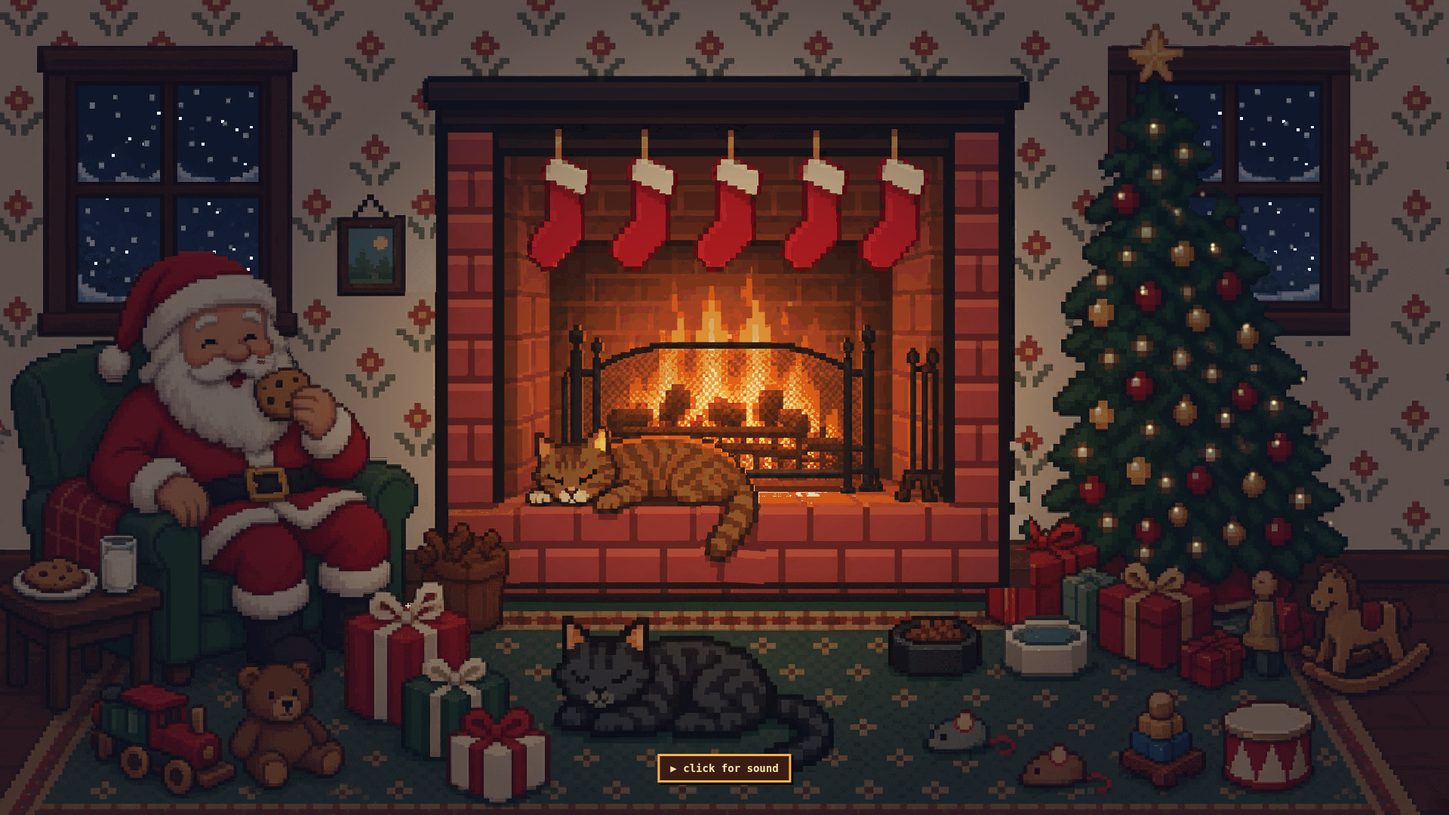
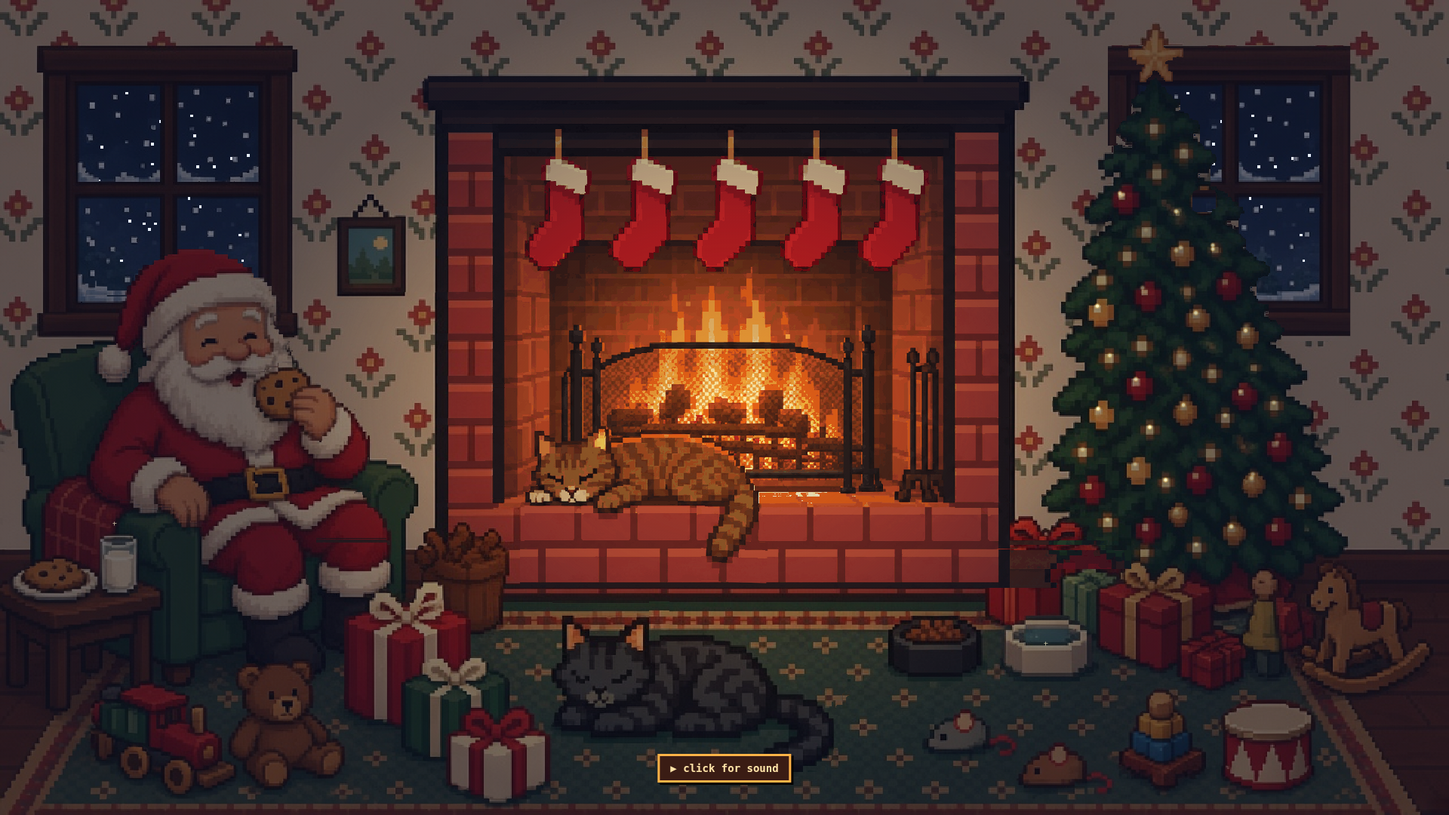
Remake scene from scratch with new art and animation layers

diff --git a/index.html b/index.html
@@ -1,130 +1,25 @@
-<!doctype html><html lang="en"><head><meta charset="utf-8"><meta name="viewport" content="width=device-width,initial-scale=1"><title>Cozy Xmas Cats</title>
-<style>
-html,body{margin:0;height:100%;background:#0d0a0a;overflow:hidden}
-.s{position:absolute;left:50%;top:50%;transform:translate(-50%,-50%);width:max(100vw,177.78vh);height:max(56.25vw,100vh);background:url(bg.png) 0 0/100% 100%;image-rendering:pixelated;overflow:hidden}
-@media (max-aspect-ratio:4/3){.s{width:min(100vw,177.78vh);height:min(56.25vw,100vh)}}
-.s>*{position:absolute;pointer-events:none;image-rendering:pixelated}
-#snow{left:5.384%;top:10.526%;width:12.427%;height:26.555%;z-index:6;-webkit-mask:url(pm1.png) 0 0/100% 100%;mask:url(pm1.png) 0 0/100% 100%}#snow2{left:78.600%;top:10.526%;width:12.427%;height:26.555%;z-index:6;-webkit-mask:url(pm2.png) 0 0/100% 100%;mask:url(pm2.png) 0 0/100% 100%}.wframe,.rfront{z-index:2!important}#night{inset:0;z-index:4;background:radial-gradient(ellipse 34% 52% at 50.6% 50%,rgba(8,12,35,0) 0,rgba(8,12,35,.18) 45%,rgba(8,12,35,.5) 85%,rgba(8,12,35,.58) 100%)}#glow{z-index:5!important}.lt,.gl{z-index:8!important}#fire{z-index:1}.e{z-index:6!important}.lt{width:.45%;height:.8%;margin:-.4% 0 0 -.22%;background:radial-gradient(circle,rgba(255,250,200,.95) 0 25%,rgba(255,210,110,.5) 45%,transparent 70%);z-index:5;animation:tw 2s steps(3) infinite}@keyframes tw{0%,100%{opacity:.15}50%{opacity:1}}.wframe{z-index:2}.santa,.sarm{z-index:3}[class*=stk],[class*=mt]{z-index:2}
-@keyframes cookie{0%,55%,100%{transform:rotate(0)}70%{transform:rotate(6deg)}82%{transform:rotate(-1deg)}88%{transform:rotate(0)}}
-@keyframes stk{0%,100%{transform:rotate(-1.6deg)}50%{transform:rotate(1.6deg)}}
-@keyframes wig{0%,80%,100%{transform:rotate(0)}85%{transform:rotate(-12deg)}90%{transform:rotate(8deg)}95%{transform:rotate(-4deg)}}
-.gl{width:calc(var(--z)*.6%);height:calc(var(--z)*1.07%);margin:calc(var(--z)*-.3%) 0 0 calc(var(--z)*-.53%);z-index:5;background:linear-gradient(#fff8d0,#fff8d0) center/22% 100% no-repeat,linear-gradient(#fff8d0,#fff8d0) center/100% 22% no-repeat;opacity:0;animation:gl 5s steps(4) infinite}
-@keyframes gl{0%,82%,100%{opacity:0;transform:scale(.4)}88%{opacity:.9;transform:scale(1)}94%{opacity:.3;transform:scale(.6)}}
-#fire{left:38.896%;top:33.094%;width:21.983%;height:28.708%;opacity:.9;mix-blend-mode:screen;--m:linear-gradient(90deg,transparent,#000 12%,#000 88%,transparent),linear-gradient(transparent 0,transparent 15%,#000 65%);-webkit-mask-image:var(--m);mask-image:var(--m);-webkit-mask-composite:source-in;mask-composite:intersect}
-.front{z-index:2}.ttail,.tbody,.ktail,.kbody,.khead{z-index:3}
-.santa{left:5.922%;top:31.419%;width:20.951%;height:44.577%;transform-origin:50% 100%;animation:br 4.8s ease-in-out infinite}
-.sarm{left:17.586%;top:47.608%;width:7.761%;height:12.998%;transform-origin:79.8% 84.7%;animation:cookie 6s ease-in-out infinite}
-.stk0{left:48.183%;top:19.537%;width:4.127%;height:13.158%;transform-origin:51.1% 0.0%;animation:stk 3.20s ease-in-out infinite -0.0s}
-.stk1{left:54.195%;top:19.537%;width:4.038%;height:13.158%;transform-origin:52.2% 0.0%;animation:stk 3.65s ease-in-out infinite -0.7s}
-.stk2{left:42.351%;top:19.537%;width:4.127%;height:13.158%;transform-origin:51.1% 0.0%;animation:stk 4.10s ease-in-out infinite -1.4s}
-.stk3{left:59.578%;top:19.537%;width:4.127%;height:13.158%;transform-origin:51.1% 0.0%;animation:stk 4.55s ease-in-out infinite -2.1s}
-.stk4{left:36.563%;top:19.537%;width:3.903%;height:13.158%;transform-origin:51.7% 0.0%;animation:stk 5.00s ease-in-out infinite -2.8s}
-.mt0{left:68.910%;top:90.271%;width:1.077%;height:1.515%;transform-origin:0.0% 21.1%;animation:wig 7s ease-in-out infinite -0s}
-.mt1{left:73.262%;top:93.461%;width:2.602%;height:1.675%;transform-origin:0.0% 61.9%;animation:wig 9s ease-in-out infinite -3s}
-.front{left:38.896%;top:43.062%;width:21.983%;height:18.740%;transform-origin:50% 100%;animation:none}
-.ttail{left:48.362%;top:62.121%;width:4.666%;height:9.250%;transform-origin:47.1% 0.9%;animation:sway 7s ease-in-out infinite}
-.tbody{left:36.205%;top:51.037%;width:16.599%;height:20.335%;transform-origin:50% 100%;animation:br 4.4s ease-in-out infinite}
-.ktail{left:52.355%;top:83.812%;width:6.146%;height:11.722%;transform-origin:5.8% 66.0%;animation:flick 9s ease-in-out infinite}
-.kbody{left:37.954%;top:73.764%;width:20.592%;height:22.329%;transform-origin:50% 100%;animation:br 5.2s ease-in-out infinite -2s}
-.khead{left:37.954%;top:73.764%;width:6.819%;height:22.329%;transform-origin:99.3% 89.6%;animation:bob 11s ease-in-out infinite}
-.wframe{left:5.114%;top:10.048%;width:12.965%;height:27.512%;transform-origin:50% 50%;animation:none}
-.rfront{left:76.447%;top:5.582%;width:16.734%;height:36.284%;transform-origin:50% 50%;animation:none}
-@keyframes br{0%,100%{transform:scaleY(1)}50%{transform:scaleY(1.018)}}
-@keyframes sway{0%,100%{transform:rotate(-3deg)}50%{transform:rotate(4deg)}}
-@keyframes flick{0%,80%,100%{transform:rotate(0)}84%{transform:rotate(-9deg)}88%{transform:rotate(3deg)}92%{transform:rotate(-5deg)}}
-@keyframes bob{0%,70%,100%{transform:rotate(0)}74%{transform:rotate(-2.5deg)}78%{transform:rotate(0)}80%{transform:rotate(-1.5deg)}83%{transform:rotate(0)}}
-#glow{inset:0;z-index:4;background:radial-gradient(ellipse 45% 55% at 50.6% 50%,rgba(255,150,60,.35),rgba(255,120,40,.12) 50%,transparent 75%);mix-blend-mode:soft-light}
-.e{width:.3%;height:.53%;background:#ffb347;top:46%;z-index:1;animation:em 3.2s steps(14) infinite;opacity:0}
-@keyframes em{0%{opacity:0;transform:translate(0,0)}15%{opacity:1}100%{opacity:0;transform:translate(1vmin,-14vmin)}}
-.btn{position:fixed;left:50%;bottom:4vmin;transform:translateX(-50%);font:bold 14px monospace;color:#ffe3a8;background:#3a1c14;border:3px solid #ffb347;box-shadow:3px 3px 0 #000;padding:8px 14px;cursor:pointer;transition:opacity 1.5s;z-index:9}
-@media (prefers-reduced-motion:reduce){.s *{animation:none!important}.e{display:none}}
-</style></head><body><div class="s">
-<canvas id="snow" width="64" height="76"></canvas><canvas id="snow2" width="64" height="76"></canvas><div id="night"></div>
-<canvas id="fire" width="96" height="72"></canvas>
-<img class="sp santa" src="santa.png" alt="">
-<img class="sp sarm" src="sarm.png" alt="">
-<img class="sp stk0" src="stk0.png" alt="">
-<img class="sp stk1" src="stk1.png" alt="">
-<img class="sp stk2" src="stk2.png" alt="">
-<img class="sp stk3" src="stk3.png" alt="">
-<img class="sp stk4" src="stk4.png" alt="">
-<img class="sp mt0" src="mt0.png" alt="">
-<img class="sp mt1" src="mt1.png" alt="">
-<i class="gl" style="left:25.71%;top:27.75%;--z:0.5;animation-duration:4.3s;animation-delay:-0.9s"></i>
-<i class="gl" style="left:79.59%;top:6.94%;--z:1.1;animation-duration:5.6s;animation-delay:-0.4s"></i>
-<i class="gl" style="left:72.27%;top:78.95%;--z:0.5;animation-duration:5.1s;animation-delay:-2.2s"></i>
-<i class="gl" style="left:71.78%;top:79.74%;--z:0.4;animation-duration:3.2s;animation-delay:-3.0s"></i>
-<i class="gl" style="left:28.31%;top:74.32%;--z:0.6;animation-duration:3.1s;animation-delay:-2.6s"></i>
-<i class="gl" style="left:31.27%;top:83.01%;--z:0.6;animation-duration:3.3s;animation-delay:-0.5s"></i>
-<i class="gl" style="left:34.19%;top:88.52%;--z:0.6;animation-duration:4.7s;animation-delay:-5.0s"></i>
-<i class="gl" style="left:72.27%;top:65.07%;--z:0.6;animation-duration:3.5s;animation-delay:-1.3s"></i>
-<i class="gl" style="left:79.59%;top:70.33%;--z:0.6;animation-duration:5.5s;animation-delay:-5.7s"></i>
-<i class="gl" style="left:8.03%;top:64.27%;--z:0.5;animation-duration:5.3s;animation-delay:-2.4s"></i>
-<img class="sp front" src="front.png" alt="">
-<img class="sp ttail" src="ttail.png" alt="">
-<img class="sp tbody" src="tbody.png" alt="">
-<img class="sp ktail" src="ktail.png" alt="">
-<img class="sp kbody" src="kbody.png" alt="">
-<img class="sp khead" src="khead.png" alt="">
-<i class="lt" style="left:81.68%;top:18.80%;animation-duration:1.92s;animation-delay:-1.63s"></i>
-<i class="lt" style="left:77.28%;top:24.00%;animation-duration:2.21s;animation-delay:-1.81s"></i>
-<i class="lt" style="left:77.50%;top:24.20%;animation-duration:2.78s;animation-delay:-0.20s"></i>
-<i class="lt" style="left:77.32%;top:24.36%;animation-duration:1.43s;animation-delay:-2.51s"></i>
-<i class="lt" style="left:81.18%;top:26.24%;animation-duration:1.97s;animation-delay:-0.70s"></i>
-<i class="lt" style="left:81.36%;top:26.12%;animation-duration:3.59s;animation-delay:-1.41s"></i>
-<i class="lt" style="left:79.07%;top:28.50%;animation-duration:3.24s;animation-delay:-1.43s"></i>
-<i class="lt" style="left:81.47%;top:30.67%;animation-duration:2.81s;animation-delay:-0.45s"></i>
-<i class="lt" style="left:83.69%;top:30.42%;animation-duration:2.80s;animation-delay:-2.60s"></i>
-<i class="lt" style="left:83.69%;top:30.86%;animation-duration:2.55s;animation-delay:-2.22s"></i>
-<i class="lt" style="left:81.18%;top:30.98%;animation-duration:2.88s;animation-delay:-0.19s"></i>
-<i class="lt" style="left:78.85%;top:35.65%;animation-duration:3.07s;animation-delay:-1.77s"></i>
-<i class="lt" style="left:78.85%;top:36.16%;animation-duration:2.06s;animation-delay:-0.09s"></i>
-<i class="lt" style="left:79.05%;top:36.16%;animation-duration:3.30s;animation-delay:-1.42s"></i>
-<i class="lt" style="left:75.73%;top:37.87%;animation-duration:2.98s;animation-delay:-2.64s"></i>
-<i class="lt" style="left:82.52%;top:38.70%;animation-duration:2.97s;animation-delay:-2.76s"></i>
-<i class="lt" style="left:85.89%;top:40.39%;animation-duration:2.27s;animation-delay:-2.40s"></i>
-<i class="lt" style="left:86.07%;top:40.31%;animation-duration:2.38s;animation-delay:-2.81s"></i>
-<i class="lt" style="left:85.95%;top:40.88%;animation-duration:3.33s;animation-delay:-0.29s"></i>
-<i class="lt" style="left:76.58%;top:43.93%;animation-duration:1.70s;animation-delay:-0.65s"></i>
-<i class="lt" style="left:81.46%;top:43.99%;animation-duration:3.52s;animation-delay:-1.31s"></i>
-<i class="lt" style="left:83.65%;top:45.89%;animation-duration:2.78s;animation-delay:-0.90s"></i>
-<i class="lt" style="left:78.38%;top:46.82%;animation-duration:2.52s;animation-delay:-1.16s"></i>
-<i class="lt" style="left:85.60%;top:48.37%;animation-duration:2.17s;animation-delay:-1.76s"></i>
-<i class="lt" style="left:87.91%;top:49.72%;animation-duration:2.69s;animation-delay:-2.71s"></i>
-<i class="lt" style="left:81.67%;top:50.00%;animation-duration:2.90s;animation-delay:-2.79s"></i>
-<i class="lt" style="left:75.78%;top:50.46%;animation-duration:3.28s;animation-delay:-2.97s"></i>
-<i class="lt" style="left:84.56%;top:51.28%;animation-duration:2.88s;animation-delay:-0.49s"></i>
-<i class="lt" style="left:79.34%;top:52.72%;animation-duration:3.29s;animation-delay:-2.89s"></i>
-<i class="lt" style="left:88.13%;top:54.59%;animation-duration:3.39s;animation-delay:-1.71s"></i>
-<i class="lt" style="left:74.72%;top:55.46%;animation-duration:2.97s;animation-delay:-0.63s"></i>
-<i class="lt" style="left:78.33%;top:57.26%;animation-duration:3.23s;animation-delay:-1.72s"></i>
-<i class="lt" style="left:86.45%;top:58.49%;animation-duration:2.03s;animation-delay:-0.19s"></i>
-<i class="lt" style="left:80.44%;top:59.21%;animation-duration:3.28s;animation-delay:-2.97s"></i>
-<i class="lt" style="left:86.39%;top:58.94%;animation-duration:1.59s;animation-delay:-2.40s"></i>
-<i class="lt" style="left:81.17%;top:62.85%;animation-duration:2.30s;animation-delay:-0.45s"></i>
-<i class="lt" style="left:76.42%;top:64.07%;animation-duration:2.05s;animation-delay:-2.31s"></i>
-<i class="lt" style="left:84.97%;top:64.91%;animation-duration:3.32s;animation-delay:-0.13s"></i>
-<i class="lt" style="left:82.54%;top:67.12%;animation-duration:2.75s;animation-delay:-0.13s"></i>
-<img class="sp wframe" src="wframe.png" alt="">
-<img class="sp rfront" src="rfront.png" alt="">
-<div id="glow"></div>
-<i class="e" style="left:47%"></i><i class="e" style="left:50%;animation-delay:-1.1s"></i><i class="e" style="left:54%;animation-delay:-2.2s"></i>
-</div>
-<script>
-(function(){const c=document.getElementById('fire'),x=c.getContext('2d'),w=96,h=72,P=[[0,0,0,0]];
-const st=[[40,8,4],[90,16,6],[140,30,8],[180,50,10],[210,80,14],[235,115,20],[248,150,30],[255,185,50],[255,215,90],[255,240,160],[255,252,220]];
-for(let i=1;i<37;i++){const f=i/36*(st.length-1),a=Math.floor(f),b=Math.min(a+1,st.length-1),t=f-a;P.push([0,1,2].map(k=>st[a][k]+(st[b][k]-st[a][k])*t).concat([Math.min(255,i*22)]))}
-const F=new Uint8Array(w*h);for(let i=0;i<w;i++){const d=Math.abs(i-w/2)/(w/2);F[(h-1)*w+i]=d<.9?36:30}
-const img=x.createImageData(w,h),g=document.getElementById('glow'),rm=matchMedia('(prefers-reduced-motion: reduce)').matches;let last=0;
-let step=function(){for(let X=0;X<w;X++)for(let Y=1;Y<h;Y++){const s=Y*w+X,p=F[s];if(!p){F[s-w]=0;continue}const r=Math.random()*3.4|0,d=s-r+1;F[Math.max(0,d-w)]=Math.max(0,p-(Math.random()<.55?1:0)-(Math.random()<(1-Y/h)*.9?1:0)-(Math.random()<.04?3:0))}
-for(let i=0;i<w*h;i++){const q=P[F[i]];img.data.set(q,i*4)}x.putImageData(img,0,0)}
-function loop(t){if(t-last>33){last=t;step();g.style.opacity=.75+Math.random()*.25;g.style.transform='translate('+(Math.random()-.5)*.6+'%,'+(Math.random()-.5)*.4+'%)'}requestAnimationFrame(loop)}
-const sc=document.getElementById('snow'),sx=sc.getContext('2d'),sx2=document.getElementById('snow2').getContext('2d'),fl=[...Array(28)].map(()=>[Math.random()*64,Math.random()*76,.15+Math.random()*.35]);
-function snow(){sx.clearRect(0,0,64,76);sx.fillStyle='#e8f0ff';fl.forEach(f=>{f[1]+=f[2];f[0]+=Math.sin(f[1]/7)*.15;if(f[1]>76){f[1]=-1;f[0]=Math.random()*64}sx.fillRect(f[0]|0,f[1]|0,1,1)});sx2.clearRect(0,0,64,76);sx2.drawImage(sc,0,0)}
-const _st=step;step=function(){_st();snow()};
-for(let i=0;i<40;i++)step();if(!rm)requestAnimationFrame(loop);else step()})();
-</script>
-<button class="btn" id="b">&#9654; click for sound</button><script>
+<!doctype html><html lang="en"><head><meta charset="utf-8"><meta name="viewport" content="width=device-width,initial-scale=1"><title>Cozy Xmas Cats</title><style>
+html,body{margin:0;height:100%;background:#0b0706;overflow:hidden}
+.s{position:absolute;left:50%;top:50%;transform:translate(-50%,-50%);width:100vw;height:56.25vw;max-height:100vh;max-width:177.78vh;background:url(bg.png) 0 0/100% 100%;overflow:hidden}
+@media (min-aspect-ratio:1/1){.s{width:max(100vw,177.78vh);height:max(56.25vw,100vh);max-width:none;max-height:none}}
+.sp{position:absolute;background-size:100% 100%;display:block}
+canvas{position:absolute;display:block}
+#fire{z-index:1;mix-blend-mode:screen;image-rendering:auto;filter:blur(.6px);-webkit-mask-image:linear-gradient(to top,#000 55%,transparent),linear-gradient(90deg,transparent,#000 12%,#000 88%,transparent);mask-image:linear-gradient(to top,#000 55%,transparent),linear-gradient(90deg,transparent,#000 12%,#000 88%,transparent);-webkit-mask-composite:source-in;mask-composite:intersect;opacity:.85}
+#emb{z-index:4;image-rendering:pixelated}.snow{z-index:2;image-rendering:pixelated}
+#glow{position:absolute;inset:0;z-index:9;pointer-events:none;mix-blend-mode:soft-light;background:radial-gradient(ellipse 45% 55% at var(--fx) var(--fy),rgba(255,150,60,.55),rgba(255,120,40,.15) 60%,transparent 80%)}
+.lt{position:absolute;z-index:8;width:.55%;aspect-ratio:1;transform:translate(-50%,-50%);border-radius:50%;background:radial-gradient(circle,rgba(255,250,210,.95),rgba(255,200,90,.45) 40%,transparent 70%);mix-blend-mode:screen;animation:tw 3s ease-in-out infinite}
+@keyframes tw{0%,100%{opacity:.15}50%{opacity:1}}
+.star{position:absolute;z-index:8;width:4%;aspect-ratio:1;transform:translate(-50%,-50%);background:radial-gradient(circle,rgba(255,240,170,.9) 0 6%,rgba(255,210,90,.35) 20%,transparent 55%),linear-gradient(90deg,transparent 47%,rgba(255,245,200,.8) 50%,transparent 53%),linear-gradient(0deg,transparent 47%,rgba(255,245,200,.8) 50%,transparent 53%);mix-blend-mode:screen;animation:gm 4s ease-in-out infinite}
+@keyframes gm{0%,100%{opacity:.35;transform:translate(-50%,-50%) scale(.7) rotate(0)}50%{opacity:1;transform:translate(-50%,-50%) scale(1) rotate(12deg)}}
+.br1{animation:br 3.6s ease-in-out infinite}.br2{animation:br 4.2s ease-in-out infinite -1s}
+@keyframes br{0%,100%{transform:scale(1,1)}50%{transform:scale(1.008,1.03)}}
+.hb{animation:hb 4.2s ease-in-out infinite -1s}@keyframes hb{0%,100%{transform:rotate(0) translateY(0)}50%{transform:rotate(-1.2deg) translateY(-1.5%)}}
+.ck{animation:ck 6s ease-in-out infinite}@keyframes ck{0%,30%,100%{transform:translate(0,0) rotate(0)}55%,75%{transform:translate(4%,9%) rotate(6deg)}}
+.sw{animation:sw 5s ease-in-out infinite}.sw:nth-of-type(2n){animation-delay:-2s}.sw:nth-of-type(3n){animation-delay:-3.3s}
+@keyframes sw{0%,100%{transform:rotate(-1.2deg)}50%{transform:rotate(1.2deg)}}
+.btn{position:fixed;left:50%;bottom:4vh;transform:translateX(-50%);z-index:20;font:600 16px system-ui;color:#fde8c8;background:rgba(40,20,10,.7);border:1px solid #c9a46a;border-radius:20px;padding:8px 18px;cursor:pointer;transition:opacity 1.5s}
+@media (prefers-reduced-motion:reduce){*{animation:none!important}}
+</style></head><body><div class="s"><i class="sp br1" style="left:31.2500%;top:55.6944%;width:13.1250%;height:11.8056%;z-index:6;transform-origin:50.6% 103.5%;background-image:url(r/tabby.png)"></i><i class="sp br2" style="left:43.7500%;top:70.4167%;width:15.3906%;height:14.8611%;z-index:6;transform-origin:50.8% 98.1%;background-image:url(r/kbody.png)"></i><i class="sp hb" style="left:43.7500%;top:71.3889%;width:6.7969%;height:12.9167%;z-index:7;transform-origin:92.0% 65.6%;background-image:url(r/khead.png)"></i><i class="sp ck" style="left:17.5000%;top:37.2222%;width:7.0312%;height:9.4444%;z-index:7;transform-origin:84.4% 94.1%;background-image:url(r/arm.png)"></i><i class="sp sw" style="left:36.1719%;top:29.8611%;width:3.5937%;height:11.1111%;z-index:5;transform-origin:52.2% 1.2%;background-image:url(r/stk0.png)"></i><i class="sp sw" style="left:41.1719%;top:29.5833%;width:5.3906%;height:11.5278%;z-index:5;transform-origin:46.4% 1.2%;background-image:url(r/stk1.png)"></i><i class="sp sw" style="left:47.7344%;top:25.8333%;width:4.6094%;height:15.2778%;z-index:5;transform-origin:45.8% 0.9%;background-image:url(r/stk2.png)"></i><i class="sp sw" style="left:53.4375%;top:29.4444%;width:4.0625%;height:11.6667%;z-index:5;transform-origin:53.8% 1.2%;background-image:url(r/stk3.png)"></i><i class="sp sw" style="left:59.3750%;top:29.3056%;width:3.5937%;height:11.3889%;z-index:5;transform-origin:50.0% 1.2%;background-image:url(r/stk4.png)"></i><i class="sp " style="left:39.8438%;top:42.5000%;width:13.9844%;height:18.6111%;z-index:3;background-image:url(r/grate.png)"></i><canvas id="fire" width="96" height="72" style="left:40.2344%;top:41.8056%;width:13.2031%;height:18.6111%"></canvas><canvas id="emb" width="169" height="164" style="left:40.2344%;top:37.6389%;width:13.2031%;height:22.7778%"></canvas><canvas class="snow" width="153" height="228" style="left:11.7188%;top:3.4722%;width:11.9531%;height:31.6667%;-webkit-mask-image:url(r/pm0.png);mask-image:url(r/pm0.png);-webkit-mask-size:100% 100%;mask-size:100% 100%"></canvas><canvas class="snow" width="136" height="204" style="left:73.5156%;top:3.4722%;width:10.6250%;height:28.3333%;-webkit-mask-image:url(r/pm1.png);mask-image:url(r/pm1.png);-webkit-mask-size:100% 100%;mask-size:100% 100%"></canvas><b class="lt" style="left:86.172%;top:10.595%;animation-delay:-0.34s;animation-duration:2.71s"></b><b class="lt" style="left:82.682%;top:11.852%;animation-delay:-3.21s;animation-duration:3.75s"></b><b class="lt" style="left:89.180%;top:11.806%;animation-delay:-0.38s;animation-duration:3.30s"></b><b class="lt" style="left:86.914%;top:12.083%;animation-delay:-1.92s;animation-duration:2.48s"></b><b class="lt" style="left:86.562%;top:12.847%;animation-delay:-2.94s;animation-duration:2.34s"></b><b class="lt" style="left:85.977%;top:13.194%;animation-delay:-1.56s;animation-duration:3.55s"></b><b class="lt" style="left:90.135%;top:13.510%;animation-delay:-1.72s;animation-duration:3.76s"></b><b class="lt" style="left:89.775%;top:13.733%;animation-delay:-2.95s;animation-duration:4.87s"></b><b class="lt" style="left:87.359%;top:14.056%;animation-delay:-1.14s;animation-duration:3.95s"></b><b class="lt" style="left:91.703%;top:14.250%;animation-delay:-2.78s;animation-duration:2.88s"></b><b class="lt" style="left:83.672%;top:15.139%;animation-delay:-0.01s;animation-duration:4.92s"></b><b class="lt" style="left:88.008%;top:15.139%;animation-delay:-1.19s;animation-duration:2.94s"></b><b class="lt" style="left:91.055%;top:15.556%;animation-delay:-3.57s;animation-duration:3.76s"></b><b class="lt" style="left:85.195%;top:15.972%;animation-delay:-1.89s;animation-duration:4.32s"></b><b class="lt" style="left:90.328%;top:16.222%;animation-delay:-0.12s;animation-duration:4.12s"></b><b class="lt" style="left:87.285%;top:17.373%;animation-delay:-1.50s;animation-duration:2.27s"></b><b class="lt" style="left:84.775%;top:17.378%;animation-delay:-2.64s;animation-duration:4.79s"></b><b class="lt" style="left:88.711%;top:18.194%;animation-delay:-0.83s;animation-duration:3.89s"></b><b class="lt" style="left:92.500%;top:18.125%;animation-delay:-1.19s;animation-duration:4.23s"></b><b class="lt" style="left:88.516%;top:18.542%;animation-delay:-2.89s;animation-duration:2.66s"></b><b class="lt" style="left:92.148%;top:18.611%;animation-delay:-3.32s;animation-duration:3.97s"></b><b class="lt" style="left:88.320%;top:18.889%;animation-delay:-2.73s;animation-duration:4.46s"></b><b class="lt" style="left:90.578%;top:20.306%;animation-delay:-1.71s;animation-duration:4.28s"></b><b class="lt" style="left:87.148%;top:20.556%;animation-delay:-3.51s;animation-duration:2.31s"></b><b class="lt" style="left:87.539%;top:20.625%;animation-delay:-3.40s;animation-duration:3.18s"></b><b class="lt" style="left:90.352%;top:20.694%;animation-delay:-1.92s;animation-duration:2.44s"></b><b class="lt" style="left:83.021%;top:21.019%;animation-delay:-2.79s;animation-duration:2.88s"></b><b class="lt" style="left:86.969%;top:21.028%;animation-delay:-3.48s;animation-duration:2.83s"></b><b class="lt" style="left:83.815%;top:21.296%;animation-delay:-2.25s;animation-duration:3.20s"></b><b class="lt" style="left:84.141%;top:21.583%;animation-delay:-2.45s;animation-duration:2.59s"></b><b class="lt" style="left:86.380%;top:21.435%;animation-delay:-0.72s;animation-duration:4.24s"></b><b class="lt" style="left:93.711%;top:21.875%;animation-delay:-3.01s;animation-duration:3.70s"></b><b class="lt" style="left:85.670%;top:22.083%;animation-delay:-3.68s;animation-duration:2.62s"></b><b class="lt" style="left:88.917%;top:22.388%;animation-delay:-3.40s;animation-duration:2.51s"></b><b class="lt" style="left:84.596%;top:22.407%;animation-delay:-3.86s;animation-duration:3.87s"></b><b class="lt" style="left:86.445%;top:22.847%;animation-delay:-2.43s;animation-duration:4.91s"></b><b class="lt" style="left:93.147%;top:23.056%;animation-delay:-3.15s;animation-duration:4.37s"></b><b class="lt" style="left:87.786%;top:23.981%;animation-delay:-0.22s;animation-duration:3.11s"></b><b class="lt" style="left:92.344%;top:23.958%;animation-delay:-0.34s;animation-duration:2.58s"></b><b class="lt" style="left:85.993%;top:24.444%;animation-delay:-0.86s;animation-duration:4.58s"></b><b class="lt" style="left:93.906%;top:24.792%;animation-delay:-0.51s;animation-duration:2.89s"></b><b class="lt" style="left:84.766%;top:25.317%;animation-delay:-1.97s;animation-duration:4.55s"></b><b class="lt" style="left:91.426%;top:25.417%;animation-delay:-3.86s;animation-duration:4.12s"></b><b class="lt" style="left:87.266%;top:25.590%;animation-delay:-0.85s;animation-duration:3.63s"></b><b class="lt" style="left:88.320%;top:25.972%;animation-delay:-2.82s;animation-duration:2.16s"></b><b class="lt" style="left:90.664%;top:26.111%;animation-delay:-2.72s;animation-duration:3.10s"></b><b class="lt" style="left:93.151%;top:26.296%;animation-delay:-2.36s;animation-duration:4.01s"></b><b class="lt" style="left:82.797%;top:27.403%;animation-delay:-2.68s;animation-duration:3.57s"></b><b class="lt" style="left:93.016%;top:27.389%;animation-delay:-2.22s;animation-duration:2.59s"></b><b class="lt" style="left:85.488%;top:28.102%;animation-delay:-1.98s;animation-duration:2.38s"></b><b class="lt" style="left:92.708%;top:28.102%;animation-delay:-1.92s;animation-duration:3.61s"></b><b class="lt" style="left:87.170%;top:29.164%;animation-delay:-3.10s;animation-duration:3.18s"></b><b class="lt" style="left:84.648%;top:28.750%;animation-delay:-0.08s;animation-duration:3.58s"></b><b class="lt" style="left:91.220%;top:29.049%;animation-delay:-0.82s;animation-duration:4.22s"></b><b class="lt" style="left:81.398%;top:29.429%;animation-delay:-1.55s;animation-duration:3.14s"></b><b class="lt" style="left:85.332%;top:29.861%;animation-delay:-3.64s;animation-duration:3.18s"></b><b class="lt" style="left:95.067%;top:30.526%;animation-delay:-1.40s;animation-duration:3.04s"></b><b class="lt" style="left:96.188%;top:30.639%;animation-delay:-1.92s;animation-duration:2.28s"></b><b class="lt" style="left:94.680%;top:31.023%;animation-delay:-2.19s;animation-duration:4.76s"></b><b class="lt" style="left:82.292%;top:31.343%;animation-delay:-2.25s;animation-duration:4.23s"></b><b class="lt" style="left:82.552%;top:31.157%;animation-delay:-3.79s;animation-duration:4.53s"></b><b class="lt" style="left:80.186%;top:31.613%;animation-delay:-2.98s;animation-duration:4.44s"></b><b class="lt" style="left:89.688%;top:31.806%;animation-delay:-3.28s;animation-duration:2.76s"></b><b class="lt" style="left:84.355%;top:32.326%;animation-delay:-1.93s;animation-duration:3.03s"></b><b class="lt" style="left:81.250%;top:32.569%;animation-delay:-1.05s;animation-duration:3.71s"></b><b class="lt" style="left:92.148%;top:32.674%;animation-delay:-1.27s;animation-duration:3.86s"></b><b class="lt" style="left:83.812%;top:32.944%;animation-delay:-2.33s;animation-duration:2.31s"></b><b class="lt" style="left:84.805%;top:33.056%;animation-delay:-1.77s;animation-duration:3.17s"></b><b class="lt" style="left:92.344%;top:33.125%;animation-delay:-2.83s;animation-duration:2.26s"></b><b class="lt" style="left:81.031%;top:33.833%;animation-delay:-0.68s;animation-duration:3.54s"></b><b class="lt" style="left:85.430%;top:33.889%;animation-delay:-1.62s;animation-duration:4.00s"></b><b class="lt" style="left:88.464%;top:34.213%;animation-delay:-1.33s;animation-duration:2.59s"></b><b class="lt" style="left:96.058%;top:34.882%;animation-delay:-3.73s;animation-duration:2.73s"></b><b class="lt" style="left:88.086%;top:34.861%;animation-delay:-0.59s;animation-duration:2.84s"></b><b class="lt" style="left:84.910%;top:35.321%;animation-delay:-1.36s;animation-duration:2.68s"></b><b class="lt" style="left:93.973%;top:35.595%;animation-delay:-2.15s;animation-duration:4.81s"></b><b class="lt" style="left:92.500%;top:35.625%;animation-delay:-0.50s;animation-duration:3.25s"></b><b class="lt" style="left:79.453%;top:35.903%;animation-delay:-2.67s;animation-duration:4.65s"></b><b class="lt" style="left:84.648%;top:35.903%;animation-delay:-4.00s;animation-duration:2.43s"></b><b class="lt" style="left:80.000%;top:36.528%;animation-delay:-2.15s;animation-duration:4.64s"></b><b class="lt" style="left:90.477%;top:37.037%;animation-delay:-0.21s;animation-duration:3.76s"></b><b class="lt" style="left:83.555%;top:36.944%;animation-delay:-0.70s;animation-duration:4.30s"></b><b class="lt" style="left:82.490%;top:38.280%;animation-delay:-3.75s;animation-duration:3.61s"></b><b class="lt" style="left:90.065%;top:38.079%;animation-delay:-0.04s;animation-duration:2.19s"></b><b class="lt" style="left:88.516%;top:38.542%;animation-delay:-1.66s;animation-duration:4.54s"></b><b class="lt" style="left:88.922%;top:38.528%;animation-delay:-0.95s;animation-duration:4.01s"></b><b class="lt" style="left:97.207%;top:38.750%;animation-delay:-1.62s;animation-duration:2.80s"></b><b class="lt" style="left:85.250%;top:38.944%;animation-delay:-2.82s;animation-duration:2.92s"></b><b class="lt" style="left:78.656%;top:39.444%;animation-delay:-1.49s;animation-duration:4.30s"></b><b class="lt" style="left:79.695%;top:40.025%;animation-delay:-1.98s;animation-duration:4.35s"></b><b class="lt" style="left:95.542%;top:40.157%;animation-delay:-2.07s;animation-duration:2.48s"></b><b class="lt" style="left:78.234%;top:40.250%;animation-delay:-1.77s;animation-duration:4.62s"></b><b class="lt" style="left:81.328%;top:40.208%;animation-delay:-2.26s;animation-duration:4.89s"></b><b class="lt" style="left:81.536%;top:40.602%;animation-delay:-0.00s;animation-duration:3.02s"></b><b class="lt" style="left:91.185%;top:40.787%;animation-delay:-3.08s;animation-duration:4.06s"></b><b class="lt" style="left:93.689%;top:41.312%;animation-delay:-2.24s;animation-duration:3.99s"></b><b class="lt" style="left:78.867%;top:41.389%;animation-delay:-3.51s;animation-duration:4.05s"></b><b class="lt" style="left:80.339%;top:41.929%;animation-delay:-2.19s;animation-duration:3.69s"></b><b class="lt" style="left:87.852%;top:41.875%;animation-delay:-2.67s;animation-duration:2.97s"></b><b class="lt" style="left:90.977%;top:41.806%;animation-delay:-2.68s;animation-duration:3.85s"></b><b class="lt" style="left:96.458%;top:41.898%;animation-delay:-3.14s;animation-duration:3.44s"></b><b class="lt" style="left:81.914%;top:41.944%;animation-delay:-0.11s;animation-duration:3.61s"></b><b class="lt" style="left:84.141%;top:42.292%;animation-delay:-3.43s;animation-duration:3.92s"></b><b class="lt" style="left:89.083%;top:42.454%;animation-delay:-2.57s;animation-duration:3.17s"></b><b class="lt" style="left:91.211%;top:42.222%;animation-delay:-1.43s;animation-duration:4.16s"></b><b class="lt" style="left:97.842%;top:42.413%;animation-delay:-0.31s;animation-duration:4.60s"></b><b class="lt" style="left:91.016%;top:42.639%;animation-delay:-3.51s;animation-duration:4.89s"></b><b class="lt" style="left:86.484%;top:42.986%;animation-delay:-0.54s;animation-duration:2.35s"></b><b class="lt" style="left:81.191%;top:43.576%;animation-delay:-3.58s;animation-duration:3.20s"></b><b class="lt" style="left:83.047%;top:43.611%;animation-delay:-1.08s;animation-duration:3.15s"></b><b class="lt" style="left:95.508%;top:43.611%;animation-delay:-2.64s;animation-duration:2.48s"></b><b class="lt" style="left:85.547%;top:43.958%;animation-delay:-1.95s;animation-duration:3.98s"></b><b class="lt" style="left:76.745%;top:44.259%;animation-delay:-2.88s;animation-duration:2.04s"></b><b class="lt" style="left:78.984%;top:44.361%;animation-delay:-3.24s;animation-duration:3.30s"></b><b class="lt" style="left:94.961%;top:44.537%;animation-delay:-1.74s;animation-duration:3.69s"></b><b class="lt" style="left:87.865%;top:45.046%;animation-delay:-1.12s;animation-duration:4.66s"></b><b class="lt" style="left:95.078%;top:45.069%;animation-delay:-0.85s;animation-duration:3.63s"></b><b class="lt" style="left:94.648%;top:45.347%;animation-delay:-0.67s;animation-duration:3.85s"></b><b class="lt" style="left:94.180%;top:45.556%;animation-delay:-3.61s;animation-duration:4.65s"></b><b class="lt" style="left:85.923%;top:46.024%;animation-delay:-0.54s;animation-duration:3.87s"></b><b class="lt" style="left:87.839%;top:46.019%;animation-delay:-3.57s;animation-duration:2.60s"></b><b class="lt" style="left:93.867%;top:45.972%;animation-delay:-1.66s;animation-duration:4.14s"></b><b class="lt" style="left:87.684%;top:46.585%;animation-delay:-2.95s;animation-duration:3.35s"></b><b class="lt" style="left:96.628%;top:46.505%;animation-delay:-2.55s;animation-duration:4.01s"></b><b class="lt" style="left:83.262%;top:46.892%;animation-delay:-1.41s;animation-duration:3.96s"></b><b class="lt" style="left:89.648%;top:46.736%;animation-delay:-2.31s;animation-duration:4.09s"></b><b class="lt" style="left:89.922%;top:46.736%;animation-delay:-2.05s;animation-duration:3.01s"></b><b class="lt" style="left:84.805%;top:47.292%;animation-delay:-1.74s;animation-duration:4.77s"></b><b class="lt" style="left:76.477%;top:48.353%;animation-delay:-0.75s;animation-duration:2.44s"></b><b class="lt" style="left:80.957%;top:48.056%;animation-delay:-0.05s;animation-duration:4.56s"></b><b class="lt" style="left:92.148%;top:48.125%;animation-delay:-3.95s;animation-duration:2.71s"></b><b class="lt" style="left:77.148%;top:48.333%;animation-delay:-1.06s;animation-duration:2.60s"></b><b class="lt" style="left:81.992%;top:48.889%;animation-delay:-2.40s;animation-duration:3.46s"></b><b class="lt" style="left:90.742%;top:48.958%;animation-delay:-3.28s;animation-duration:2.63s"></b><b class="lt" style="left:93.694%;top:49.028%;animation-delay:-3.51s;animation-duration:3.39s"></b><b class="lt" style="left:86.042%;top:49.398%;animation-delay:-3.23s;animation-duration:4.41s"></b><b class="lt" style="left:90.156%;top:49.236%;animation-delay:-3.64s;animation-duration:3.50s"></b><b class="lt" style="left:99.031%;top:49.528%;animation-delay:-2.44s;animation-duration:3.68s"></b><b class="lt" style="left:81.884%;top:50.167%;animation-delay:-0.76s;animation-duration:3.50s"></b><b class="lt" style="left:94.124%;top:49.978%;animation-delay:-3.71s;animation-duration:4.73s"></b><b class="lt" style="left:98.789%;top:49.722%;animation-delay:-0.09s;animation-duration:3.99s"></b><b class="lt" style="left:84.754%;top:50.203%;animation-delay:-1.31s;animation-duration:2.41s"></b><b class="lt" style="left:86.810%;top:50.139%;animation-delay:-0.56s;animation-duration:4.38s"></b><b class="lt" style="left:81.328%;top:50.486%;animation-delay:-3.84s;animation-duration:3.56s"></b><b class="lt" style="left:88.802%;top:50.370%;animation-delay:-1.53s;animation-duration:3.53s"></b><b class="lt" style="left:87.617%;top:50.694%;animation-delay:-3.32s;animation-duration:4.24s"></b><b class="lt" style="left:88.398%;top:50.694%;animation-delay:-0.26s;animation-duration:2.64s"></b><b class="lt" style="left:92.812%;top:50.799%;animation-delay:-3.47s;animation-duration:3.48s"></b><b class="lt" style="left:76.875%;top:50.868%;animation-delay:-2.63s;animation-duration:4.33s"></b><b class="lt" style="left:88.125%;top:50.972%;animation-delay:-2.55s;animation-duration:4.20s"></b><b class="lt" style="left:88.555%;top:51.250%;animation-delay:-2.18s;animation-duration:2.69s"></b><b class="lt" style="left:96.484%;top:51.278%;animation-delay:-0.75s;animation-duration:4.98s"></b><b class="lt" style="left:76.719%;top:51.528%;animation-delay:-0.04s;animation-duration:4.07s"></b><b class="lt" style="left:77.240%;top:52.037%;animation-delay:-3.52s;animation-duration:2.69s"></b><b class="lt" style="left:78.658%;top:52.828%;animation-delay:-0.19s;animation-duration:3.20s"></b><b class="lt" style="left:98.047%;top:52.708%;animation-delay:-1.32s;animation-duration:3.38s"></b><b class="lt" style="left:93.504%;top:53.185%;animation-delay:-1.71s;animation-duration:4.83s"></b><b class="lt" style="left:85.156%;top:53.090%;animation-delay:-0.48s;animation-duration:4.83s"></b><b class="lt" style="left:82.806%;top:54.113%;animation-delay:-0.18s;animation-duration:4.81s"></b><b class="lt" style="left:75.300%;top:54.276%;animation-delay:-1.33s;animation-duration:4.18s"></b><b class="lt" style="left:92.734%;top:54.097%;animation-delay:-0.01s;animation-duration:3.34s"></b><b class="lt" style="left:84.943%;top:54.773%;animation-delay:-2.71s;animation-duration:3.88s"></b><b class="lt" style="left:96.146%;top:55.046%;animation-delay:-3.23s;animation-duration:2.46s"></b><b class="lt" style="left:97.266%;top:55.417%;animation-delay:-1.60s;animation-duration:3.84s"></b><b class="lt" style="left:74.805%;top:55.694%;animation-delay:-0.11s;animation-duration:4.51s"></b><b class="lt" style="left:77.439%;top:56.429%;animation-delay:-1.66s;animation-duration:2.74s"></b><b class="lt" style="left:79.974%;top:56.296%;animation-delay:-0.89s;animation-duration:3.95s"></b><b class="lt" style="left:83.084%;top:56.944%;animation-delay:-0.19s;animation-duration:2.73s"></b><b class="lt" style="left:92.277%;top:57.465%;animation-delay:-1.22s;animation-duration:2.78s"></b><b class="lt" style="left:75.703%;top:57.431%;animation-delay:-2.92s;animation-duration:3.78s"></b><b class="lt" style="left:98.945%;top:57.292%;animation-delay:-3.62s;animation-duration:4.10s"></b><b class="lt" style="left:75.508%;top:57.639%;animation-delay:-1.18s;animation-duration:2.97s"></b><b class="lt" style="left:86.458%;top:57.546%;animation-delay:-0.49s;animation-duration:2.73s"></b><b class="lt" style="left:75.672%;top:57.944%;animation-delay:-2.42s;animation-duration:4.19s"></b><b class="lt" style="left:77.969%;top:58.264%;animation-delay:-1.18s;animation-duration:3.03s"></b><b class="lt" style="left:82.031%;top:59.097%;animation-delay:-3.21s;animation-duration:4.88s"></b><b class="lt" style="left:93.531%;top:59.361%;animation-delay:-0.34s;animation-duration:2.21s"></b><b class="lt" style="left:79.375%;top:59.765%;animation-delay:-3.04s;animation-duration:3.49s"></b><b class="lt" style="left:96.923%;top:59.776%;animation-delay:-1.70s;animation-duration:3.90s"></b><b class="lt" style="left:81.016%;top:60.671%;animation-delay:-3.04s;animation-duration:2.21s"></b><b class="lt" style="left:88.750%;top:60.625%;animation-delay:-3.85s;animation-duration:4.87s"></b><b class="lt" style="left:85.186%;top:62.049%;animation-delay:-1.67s;animation-duration:3.41s"></b><b class="lt" style="left:88.398%;top:61.736%;animation-delay:-1.09s;animation-duration:3.76s"></b><b class="lt" style="left:88.623%;top:62.156%;animation-delay:-0.82s;animation-duration:3.60s"></b><b class="lt" style="left:83.021%;top:61.991%;animation-delay:-3.62s;animation-duration:3.52s"></b><b class="lt" style="left:98.509%;top:62.348%;animation-delay:-3.31s;animation-duration:2.54s"></b><b class="lt" style="left:90.670%;top:65.060%;animation-delay:-3.53s;animation-duration:2.37s"></b><b class="star" style="left:87.724%;top:4.800%"></b><i id="glow" style="--fx:46.84%;--fy:51.81%"></i></div><button class="btn" id="b">&#9654; click for sound</button><script>
 let A,M,on=0;const B=document.getElementById('b');
 function noise(c,s){const n=c.sampleRate*s,b=c.createBuffer(1,n,c.sampleRate),d=b.getChannelData(0);let l=0;for(let i=0;i<n;i++){const w=Math.random()*2-1;l=(l+.02*w)/1.02;d[i]=s>1?l*3.5:w}return b}
 function src(b){const s=A.createBufferSource();s.buffer=b;s.loop=true;s.start();return s}
@@ -136,4 +31,32 @@ const wb=noise(A,2),h=src(wb),hf=A.createBiquadFilter();hf.type='bandpass';hf.fr
 (function cr(){const s=A.createBufferSource();s.buffer=wb;const f=A.createBiquadFilter();f.type='highpass';f.frequency.value=1000+Math.random()*3000;const g=A.createGain(),n=A.currentTime;g.gain.setValueAtTime(.08*Math.random()+.02,n);g.gain.exponentialRampToValueAtTime(.001,n+.03+Math.random()*.05);s.connect(f).connect(g).connect(M);s.start(n,Math.random());s.stop(n+.1);setTimeout(cr,60+Math.random()*(Math.random()<.2?80:600))})();
 on=1}
 document.addEventListener('click',()=>{if(!A){start();B.style.opacity=0;setTimeout(()=>B.remove(),1600)}else{on=!on;M.gain.setTargetAtTime(on?.5:0,A.currentTime,.1)}});
+
+const RM=matchMedia('(prefers-reduced-motion: reduce)').matches;
+const fc=document.getElementById('fire'),fx=fc.getContext('2d'),FW=96,FH=72,P=new Uint8Array(FW*FH),img=fx.createImageData(FW,FH);
+const pal=[];for(let i=0;i<37;i++){const t=i/36;pal.push([Math.min(255,t*3*255),Math.max(0,Math.min(255,(t*2-.35)*255)),Math.max(0,Math.min(255,(t*3-2.1)*255)),Math.min(255,t*4*255)])}
+for(let x=0;x<FW;x++)P[(FH-1)*FW+x]=36;
+function step(){for(let x=0;x<FW;x++)P[(FH-1)*FW+x]=Math.random()<.85?36:28;for(let x=0;x<FW;x++)for(let y=1;y<FH;y++){const s=y*FW+x,r=Math.round(Math.random()*3)&3,d=s-r+1;P[Math.max(0,d-FW)]=Math.max(0,P[s]-(r&1)-(y<FH*.45?1:0))}
+for(let i=0;i<FW*FH;i++){const c=pal[P[i]];img.data[i*4]=c[0];img.data[i*4+1]=c[1];img.data[i*4+2]=c[2];img.data[i*4+3]=c[3]}fx.putImageData(img,0,0)}
+const ec=document.getElementById('emb'),ex=ec.getContext('2d');let E=[];
+function emb(){ex.clearRect(0,0,ec.width,ec.height);if(E.length<14&&Math.random()<.2)E.push({x:ec.width*(.2+.6*Math.random()),y:ec.height*.85,v:.3+Math.random()*.5,l:1});E=E.filter(e=>e.l>0);for(const e of E){e.y-=e.v;e.x+=Math.sin(e.y/9)*.3;e.l-=.008;ex.fillStyle=`rgba(255,${150+Math.random()*80|0},60,${e.l})`;ex.fillRect(e.x|0,e.y|0,1,1)}}
+const SN=[...document.querySelectorAll('.snow')].map(c=>{const x=c.getContext('2d');const f=[...Array(Math.round(c.width*c.height/500))].map(()=>({x:Math.random()*c.width,y:Math.random()*c.height,v:.15+Math.random()*.35,s:Math.random()<.3?2:1}));return{c,x,f}});
+function snow(){for(const s of SN){s.x.clearRect(0,0,s.c.width,s.c.height);s.x.fillStyle='rgba(240,245,255,.9)';for(const p of s.f){p.y+=p.v;p.x+=Math.sin(p.y/15)*.15;if(p.y>s.c.height){p.y=-2;p.x=Math.random()*s.c.width}s.x.fillRect(p.x|0,p.y|0,p.s,p.s)}}}
+const gl=document.getElementById('glow');let lt=0;
+function loop(t){if(t-lt>33){lt=t;step();emb();snow();gl.style.opacity=.75+Math.random()*.25}if(!RM)requestAnimationFrame(loop)}
+step();snow();requestAnimationFrame(loop);
+
+const RM=matchMedia('(prefers-reduced-motion: reduce)').matches;
+const fc=document.getElementById('fire'),fx=fc.getContext('2d'),FW=96,FH=72,P=new Uint8Array(FW*FH),img=fx.createImageData(FW,FH);
+const pal=[];for(let i=0;i<37;i++){const t=i/36;pal.push([Math.min(255,t*3*255),Math.max(0,Math.min(255,(t*2-.35)*255)),Math.max(0,Math.min(255,(t*3-2.1)*255)),Math.min(255,t*4*255)])}
+for(let x=0;x<FW;x++)P[(FH-1)*FW+x]=36;
+function step(){for(let x=0;x<FW;x++)P[(FH-1)*FW+x]=Math.random()<.85?36:28;for(let x=0;x<FW;x++)for(let y=1;y<FH;y++){const s=y*FW+x,r=Math.round(Math.random()*3)&3,d=s-r+1;P[Math.max(0,d-FW)]=Math.max(0,P[s]-(r&1)-(y<FH*.45?1:0))}
+for(let i=0;i<FW*FH;i++){const c=pal[P[i]];img.data[i*4]=c[0];img.data[i*4+1]=c[1];img.data[i*4+2]=c[2];img.data[i*4+3]=c[3]}fx.putImageData(img,0,0)}
+const ec=document.getElementById('emb'),ex=ec.getContext('2d');let E=[];
+function emb(){ex.clearRect(0,0,ec.width,ec.height);if(E.length<14&&Math.random()<.2)E.push({x:ec.width*(.2+.6*Math.random()),y:ec.height*.85,v:.3+Math.random()*.5,l:1});E=E.filter(e=>e.l>0);for(const e of E){e.y-=e.v;e.x+=Math.sin(e.y/9)*.3;e.l-=.008;ex.fillStyle=`rgba(255,${150+Math.random()*80|0},60,${e.l})`;ex.fillRect(e.x|0,e.y|0,1,1)}}
+const SN=[...document.querySelectorAll('.snow')].map(c=>{const x=c.getContext('2d');const f=[...Array(Math.round(c.width*c.height/500))].map(()=>({x:Math.random()*c.width,y:Math.random()*c.height,v:.15+Math.random()*.35,s:Math.random()<.3?2:1}));return{c,x,f}});
+function snow(){for(const s of SN){s.x.clearRect(0,0,s.c.width,s.c.height);s.x.fillStyle='rgba(240,245,255,.9)';for(const p of s.f){p.y+=p.v;p.x+=Math.sin(p.y/15)*.15;if(p.y>s.c.height){p.y=-2;p.x=Math.random()*s.c.width}s.x.fillRect(p.x|0,p.y|0,p.s,p.s)}}}
+const gl=document.getElementById('glow');let lt=0;
+function loop(t){if(t-lt>33){lt=t;step();emb();snow();gl.style.opacity=.75+Math.random()*.25}if(!RM)requestAnimationFrame(loop)}
+step();snow();requestAnimationFrame(loop);
 </script></body></html>
